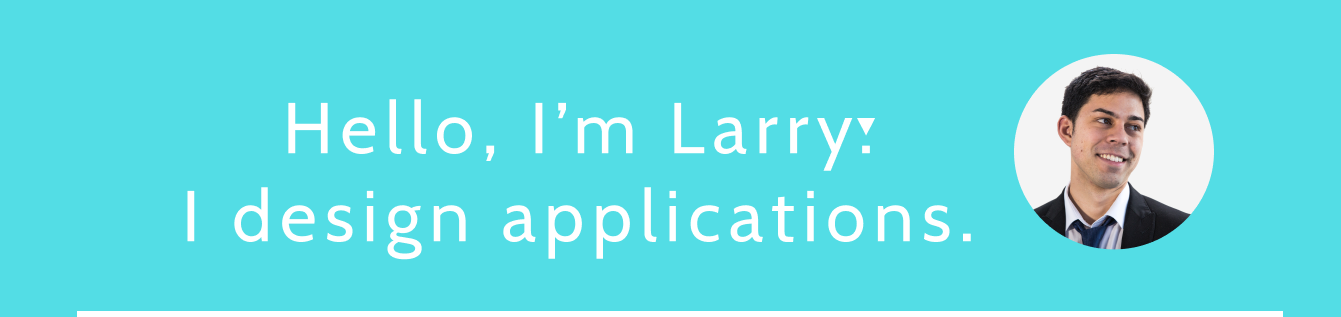
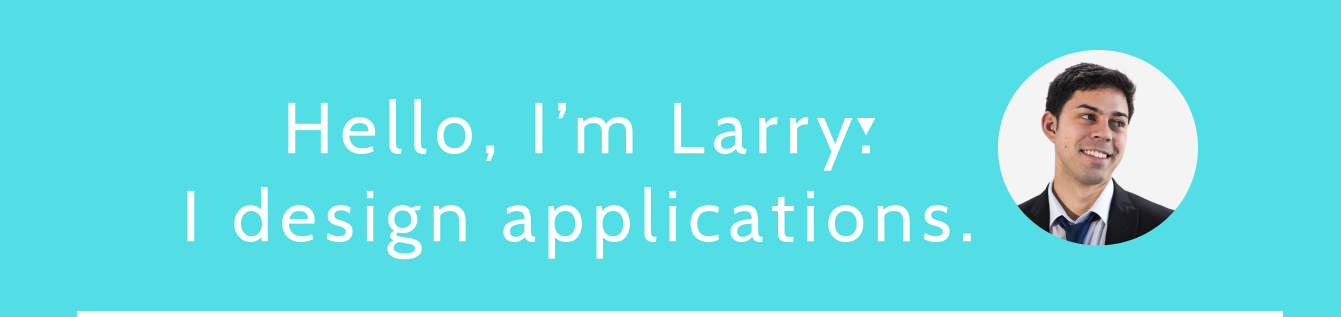
Removed resume link

Changed region(s): [[0.7338, 0.142, 0.9172, 0.795]]

diff --git a/source/stylesheets/site.css.scss b/source/stylesheets/site.css.scss
@@ -73,7 +73,7 @@ a {
   }
 
 .information {
-  padding-top: 25%;
+  padding-top: 17%;
 }
 
 .btn-treehouse {
